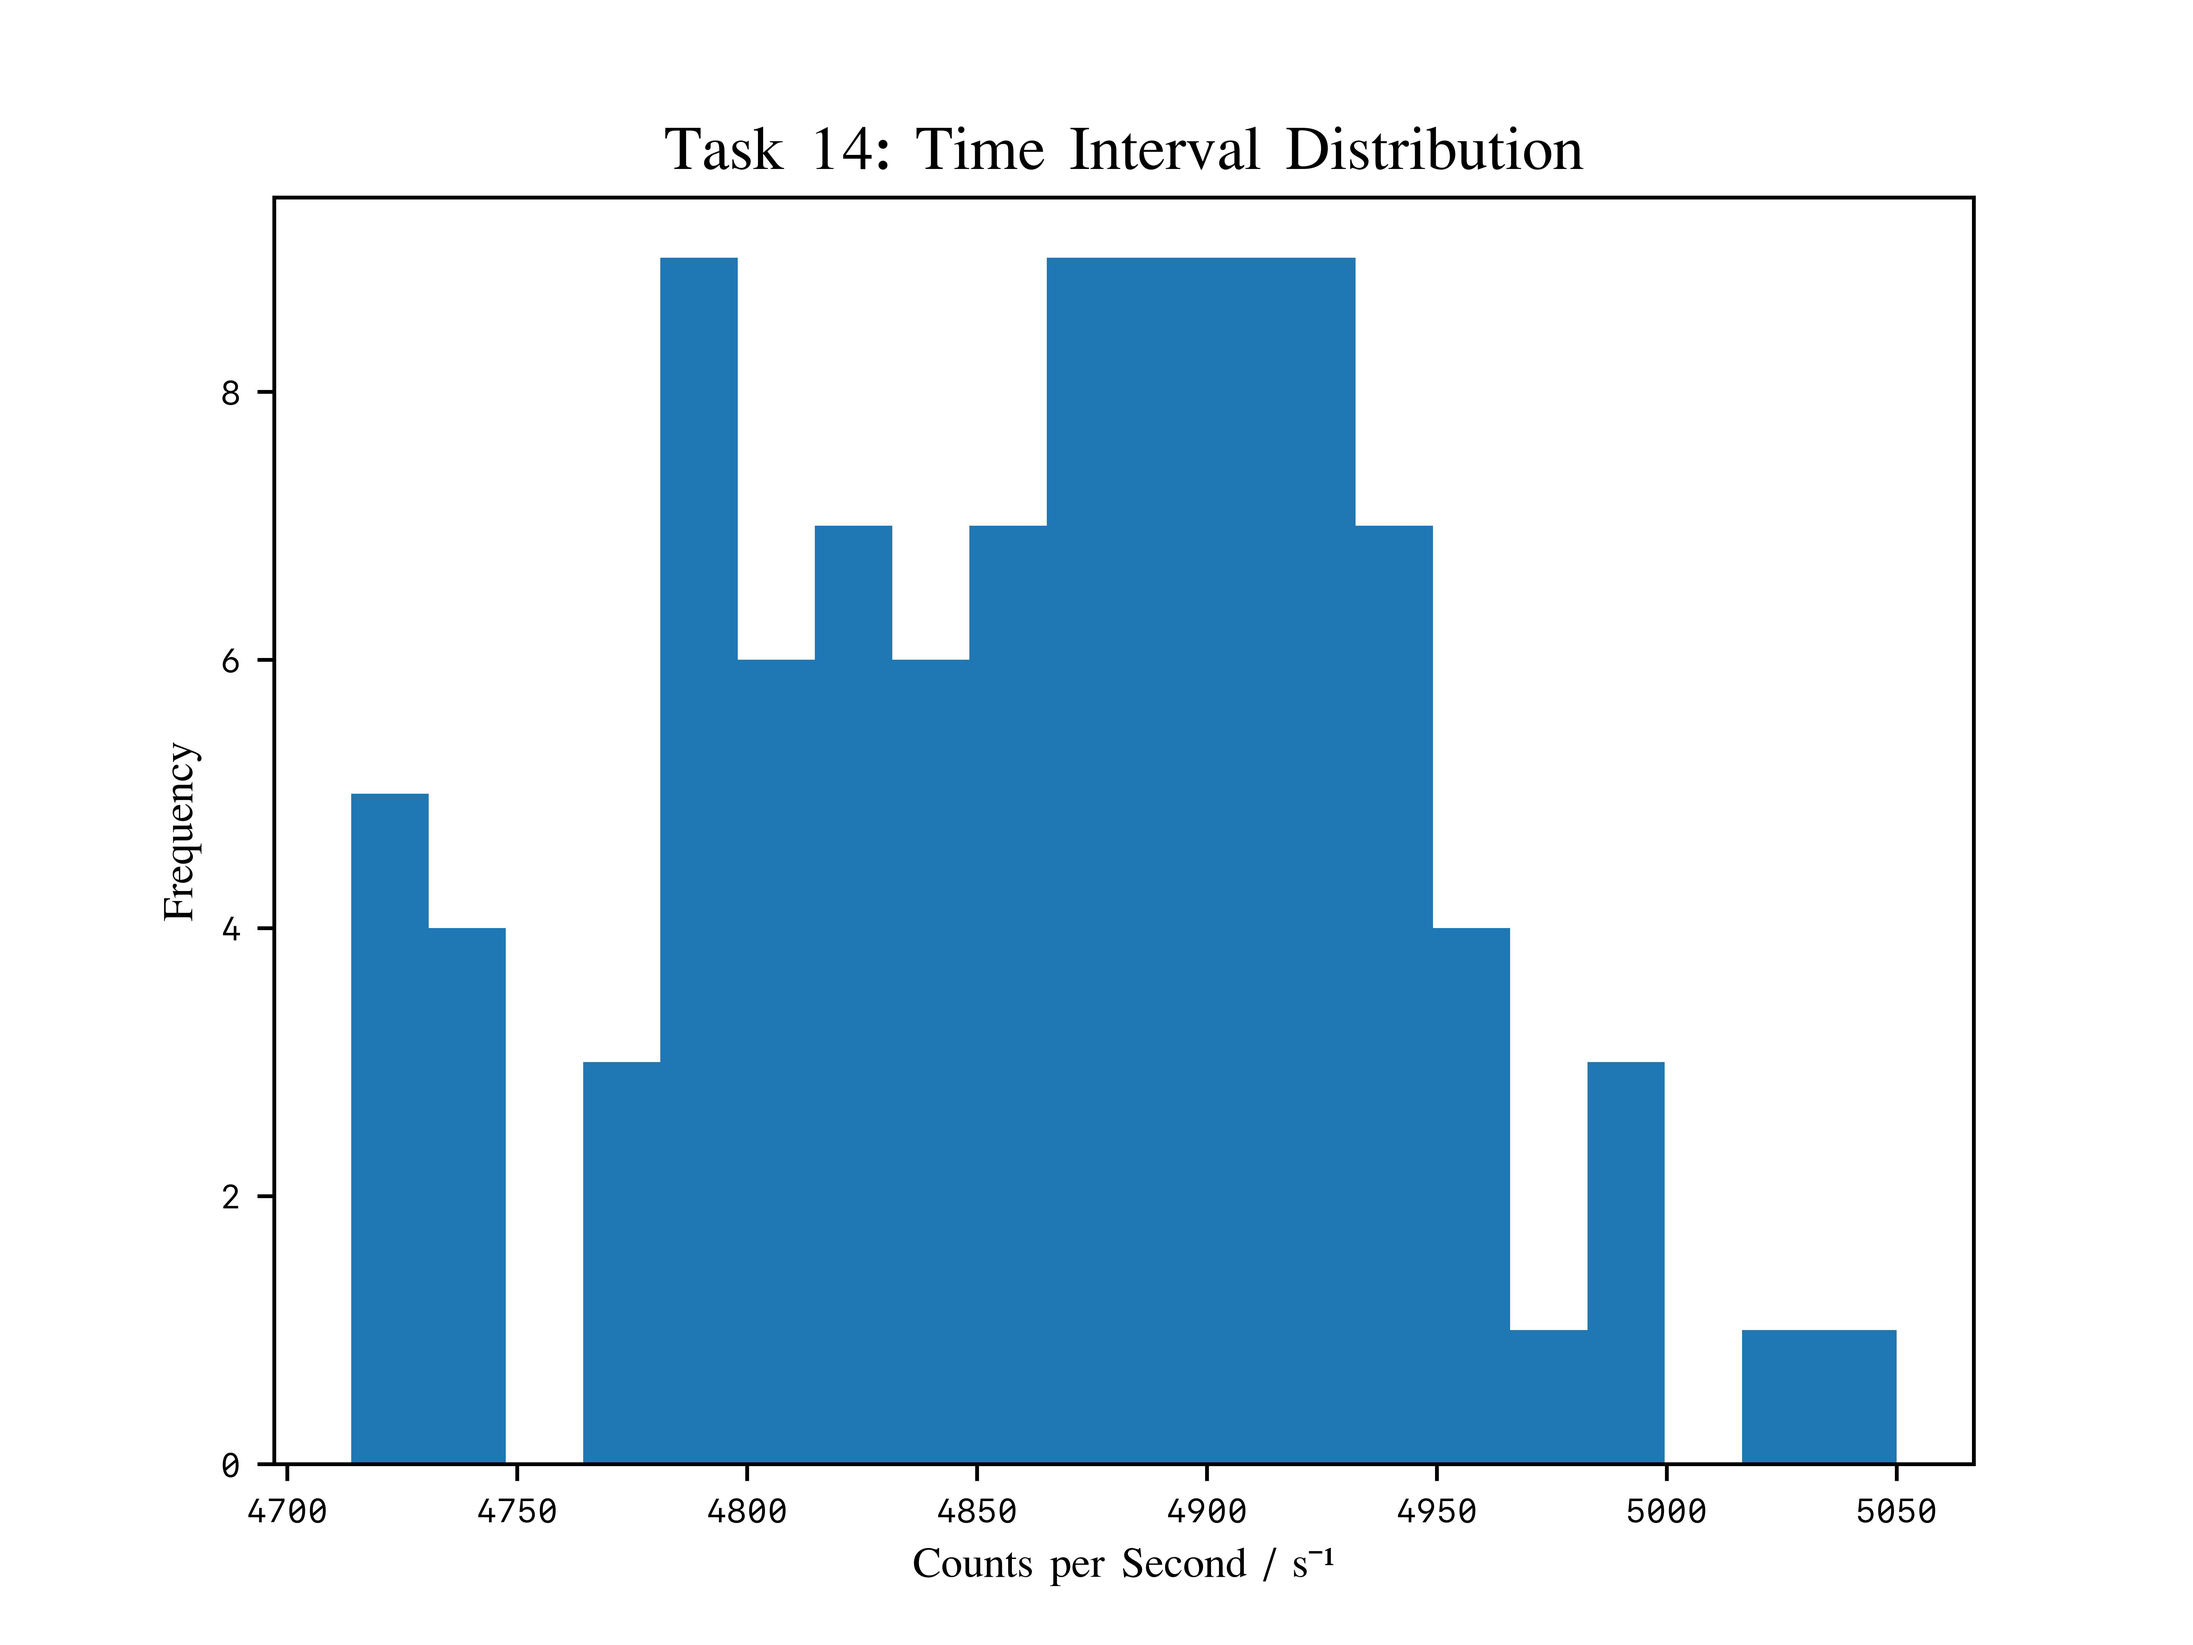
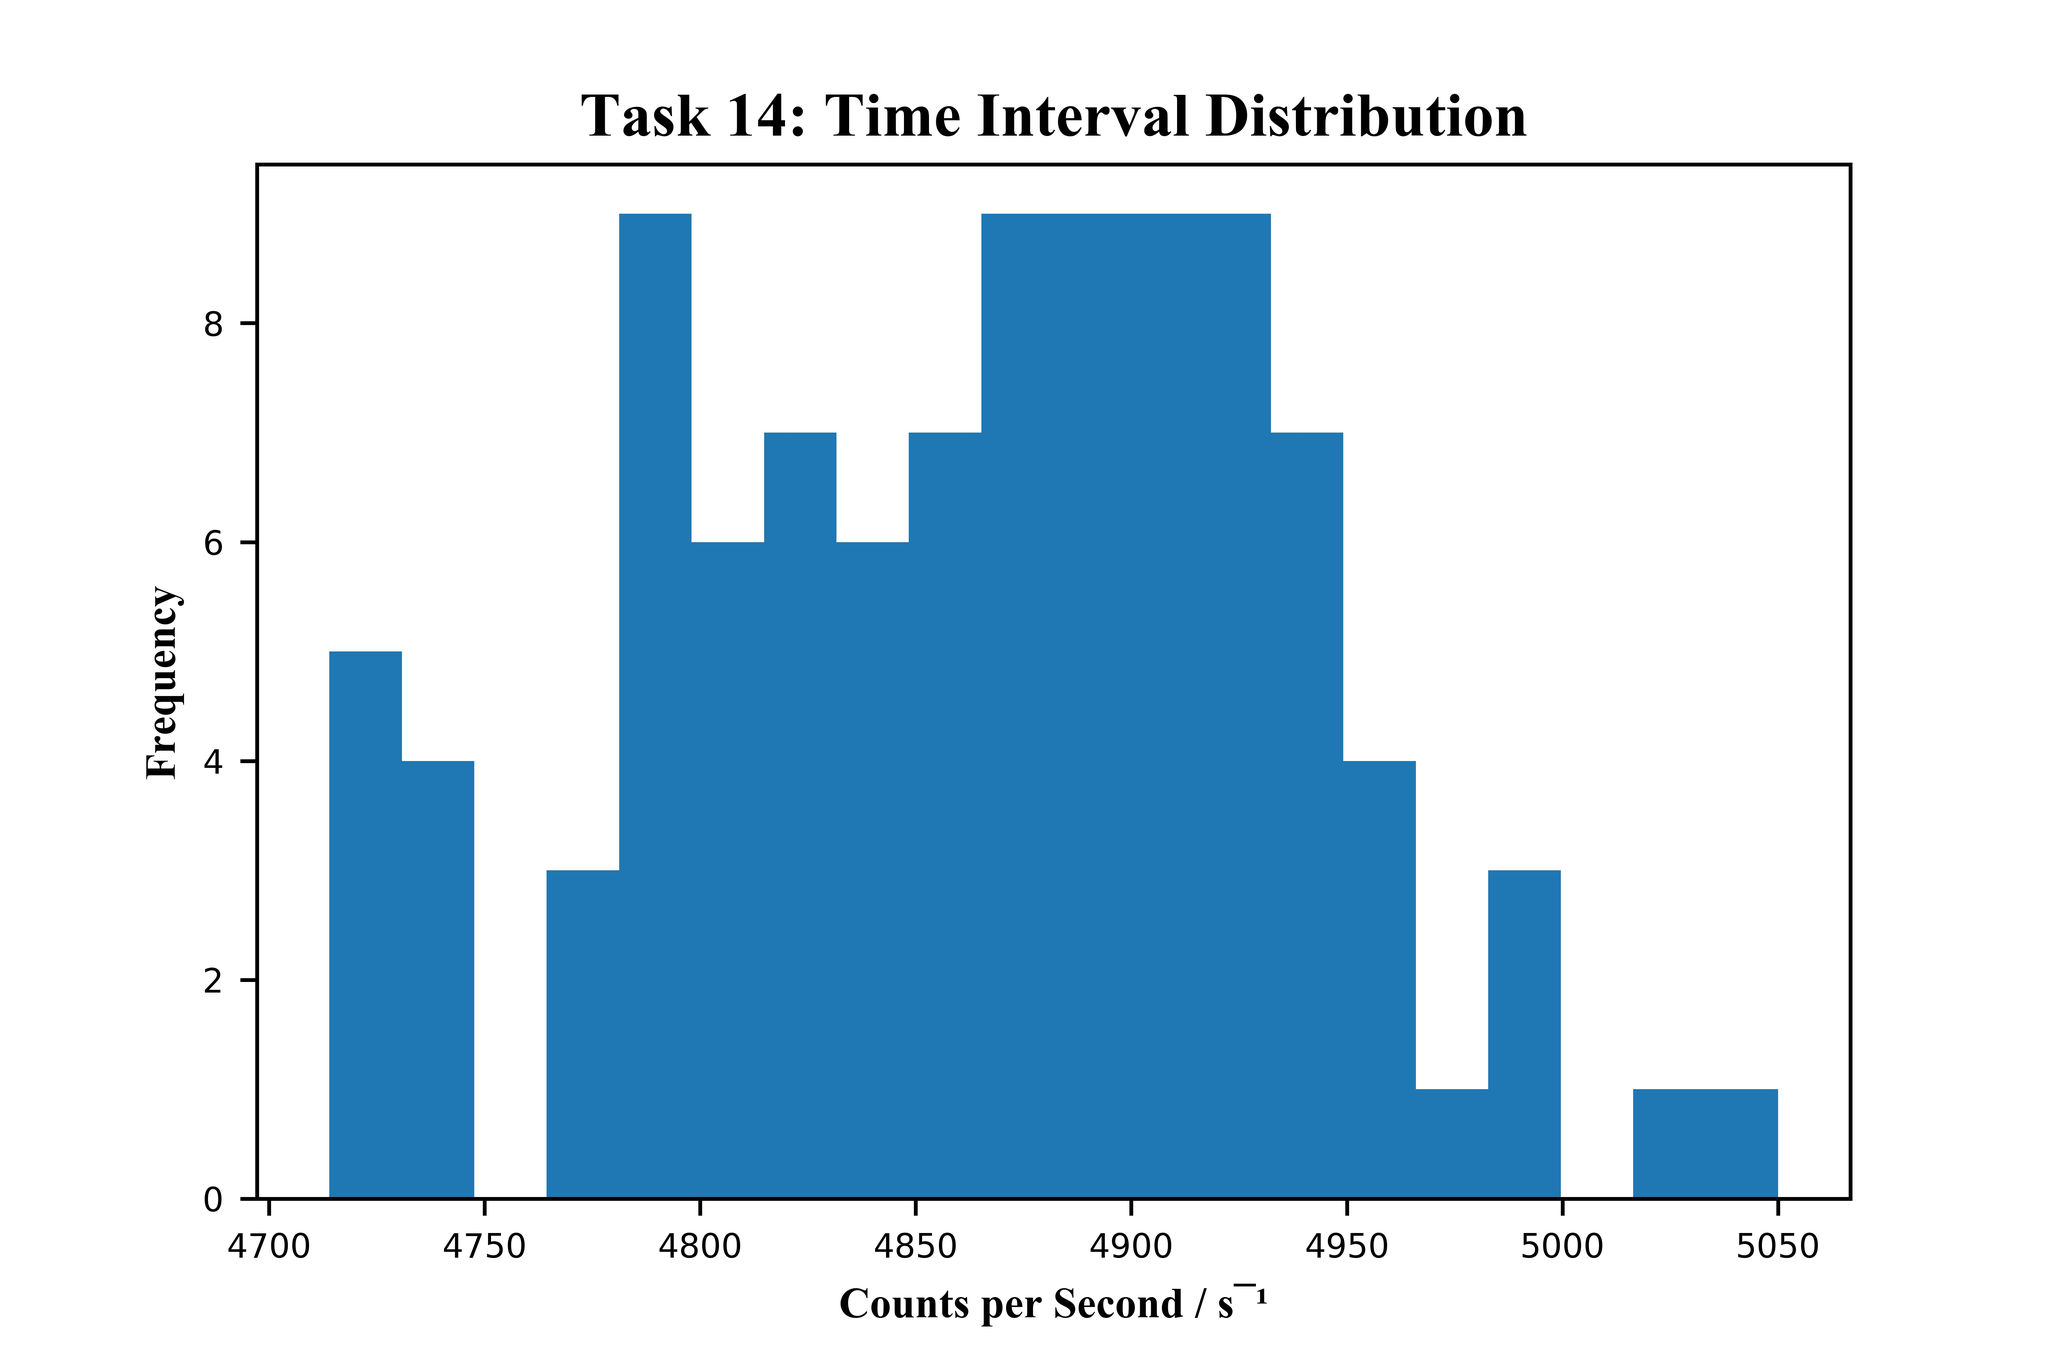
Add files via upload

diff --git a/tasks.py b/tasks.py
@@ -1,8 +1,8 @@
 import numpy as np
 import matplotlib.pyplot as plt
 
-titleFont = {'fontname': 'Kinnari', 'size': 13}
-axesFont = {'fontname': 'Kinnari', 'size': 9}
+titleFont = {'fontname': 'Times New Roman', 'size': 13}
+axesFont = {'fontname': 'Times New Roman', 'size': 9}
 ticksFont = {'fontname': 'SF Mono', 'size': 7}
 errorStyle = {'mew': 1, 'ms': 3, 'capsize': 3, 'color': 'blue', 'ls': ''}
 pointStyle = {'mew': 1, 'ms': 3, 'color': 'blue'}
@@ -152,8 +152,33 @@ plt.show()
 
 # %% TASK 15
 
+Distance,Count,Time,CountRate,Val,ValError = \
+    np.loadtxt("15_data.txt",skiprows=1,unpack=True,delimiter=",")
+
+plt.plot(Distance,Val,'x')
+plt.xlabel("Counts per Second / s¯¹", **axesFont)
+plt.ylabel("Frequency", **axesFont)
+plt.xticks(**ticksFont)
+plt.yticks(**ticksFont)
+plt.title("Task 15: ", **titleFont)
+# plt.savefig('Task 15.jpg', dpi=1000)
+plt.show()
+
+
 
 # %% TASK 16
+
+Distance,Count,Time,CountRate,Val,ValError = \
+    np.loadtxt("16_data.txt",skiprows=1,unpack=True,delimiter=",")
+
+plt.plot(Distance,Val,'x')
+plt.xlabel("Counts per Second / s¯¹", **axesFont)
+plt.ylabel("Frequency", **axesFont)
+plt.xticks(**ticksFont)
+plt.yticks(**ticksFont)
+plt.title("Task 16: ", **titleFont)
+# plt.savefig('Task 16.jpg', dpi=1000)
+plt.show()
 
 
 # %% TASK 17
